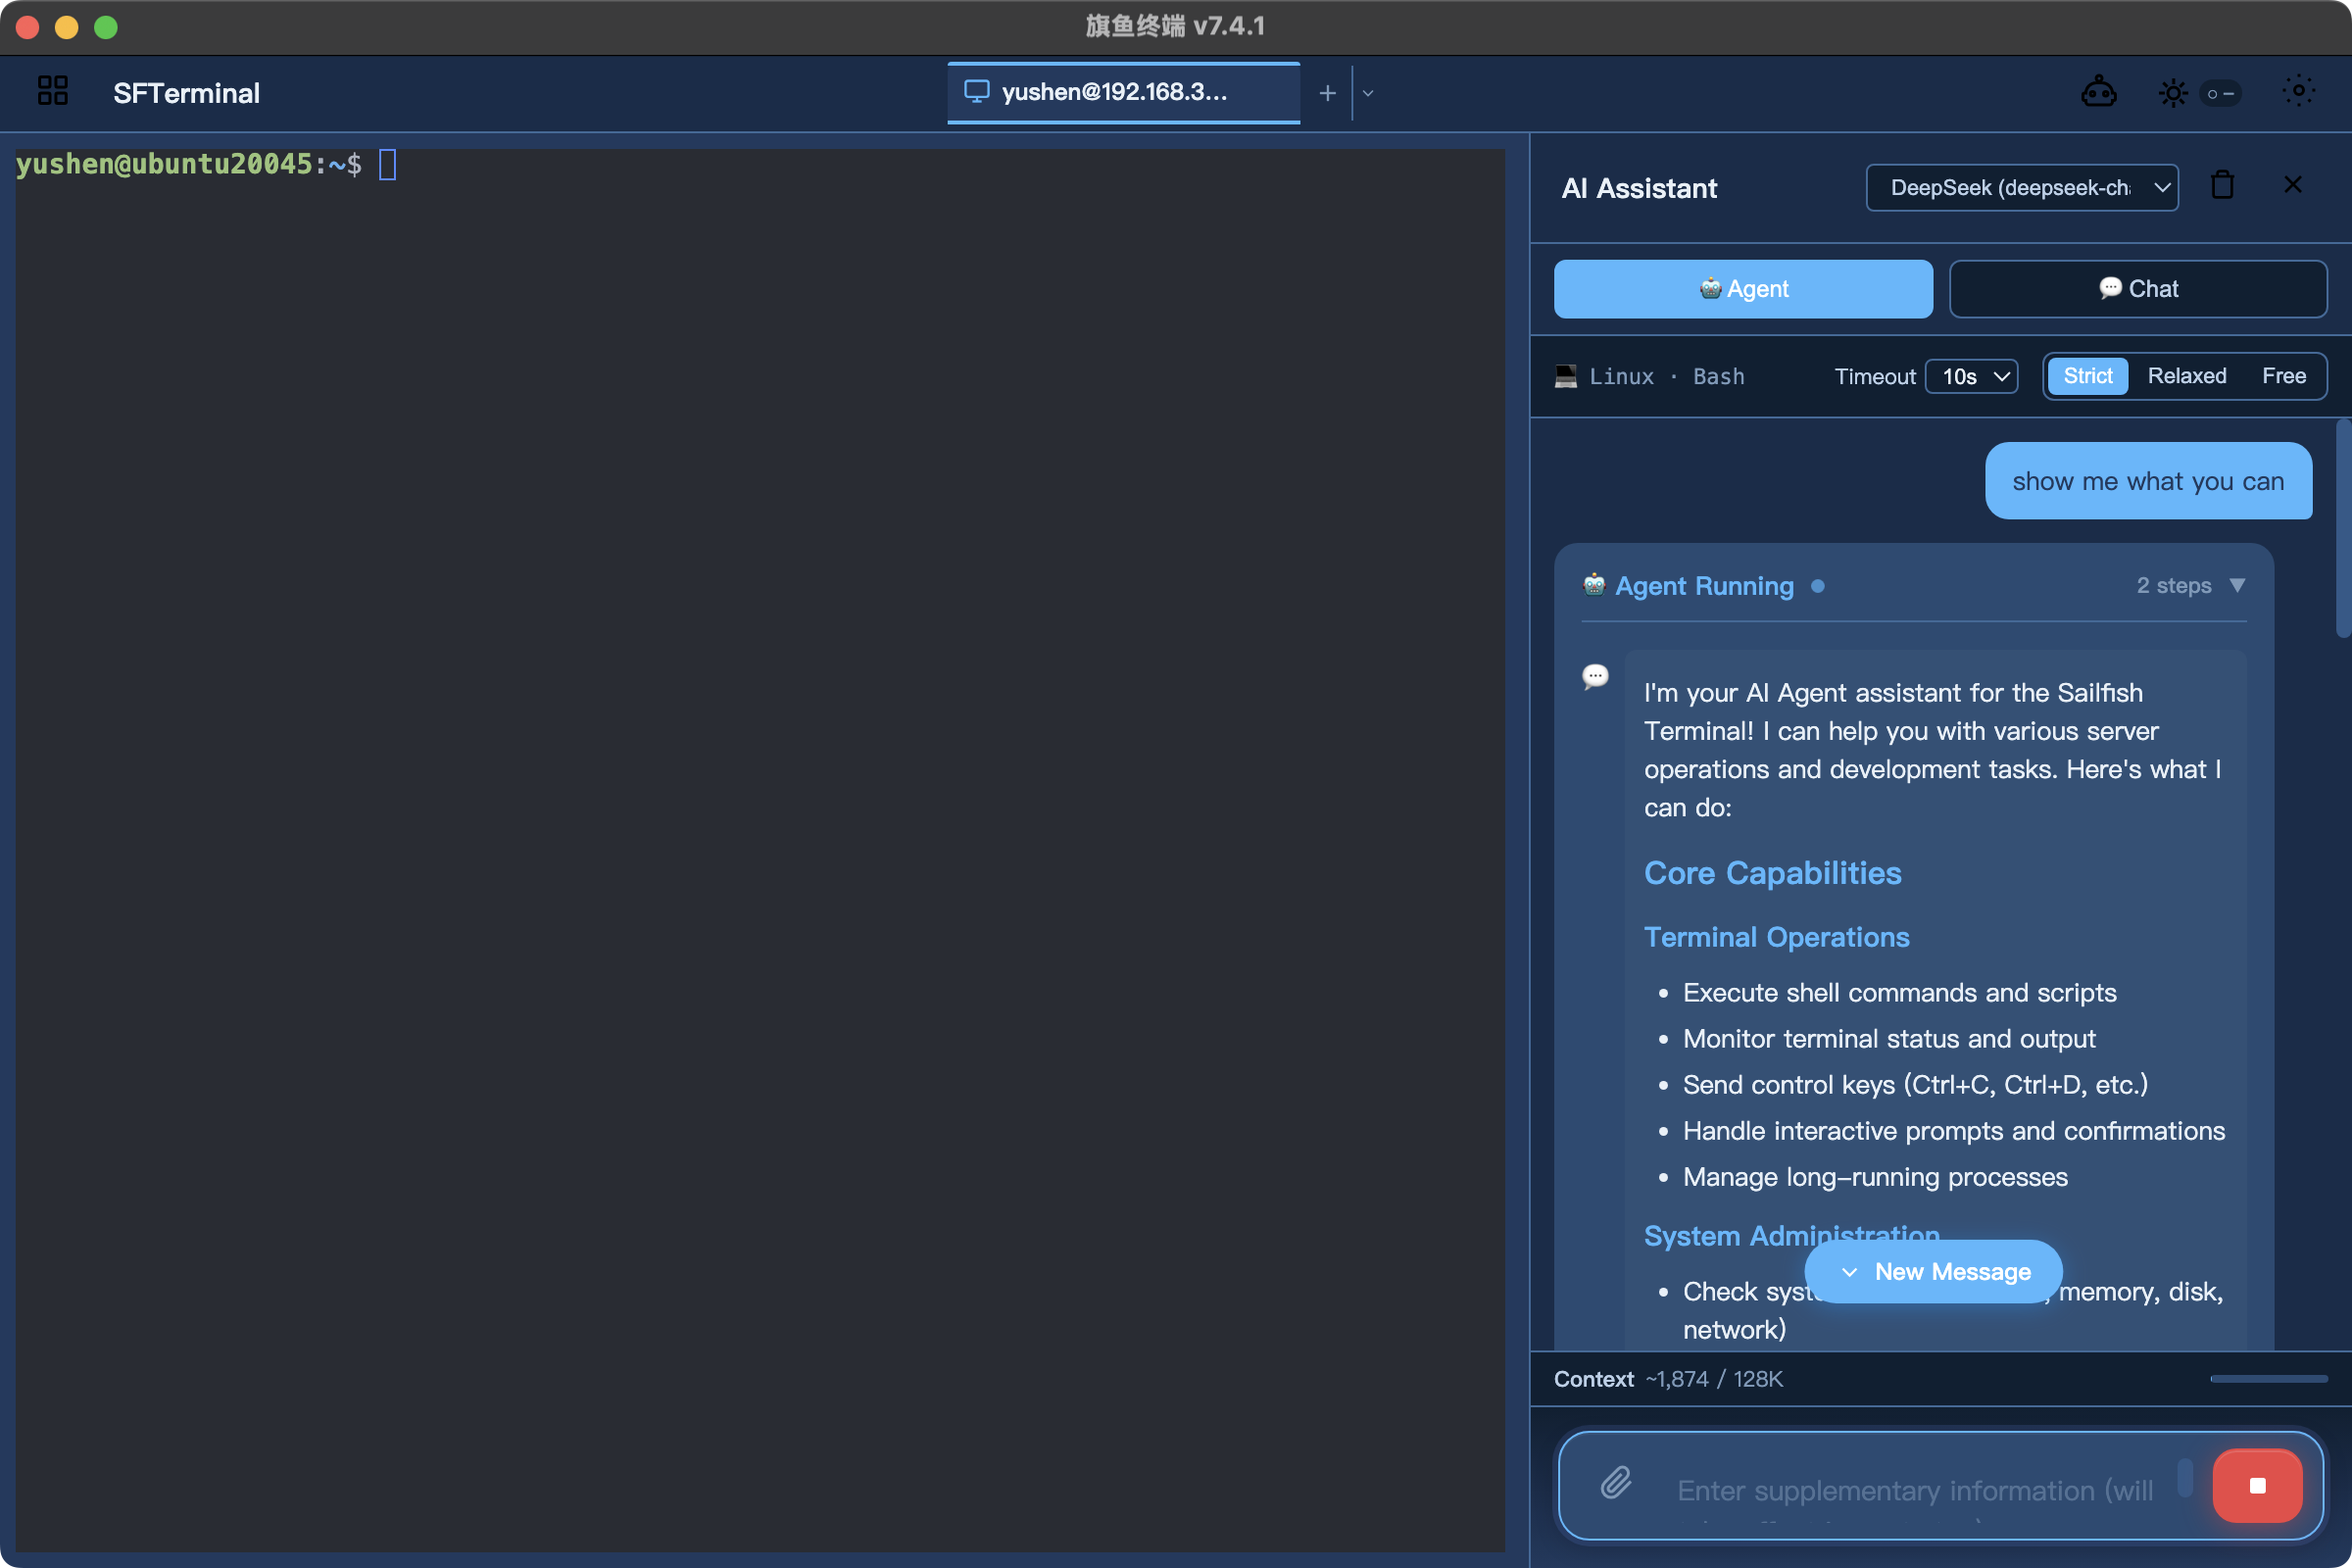
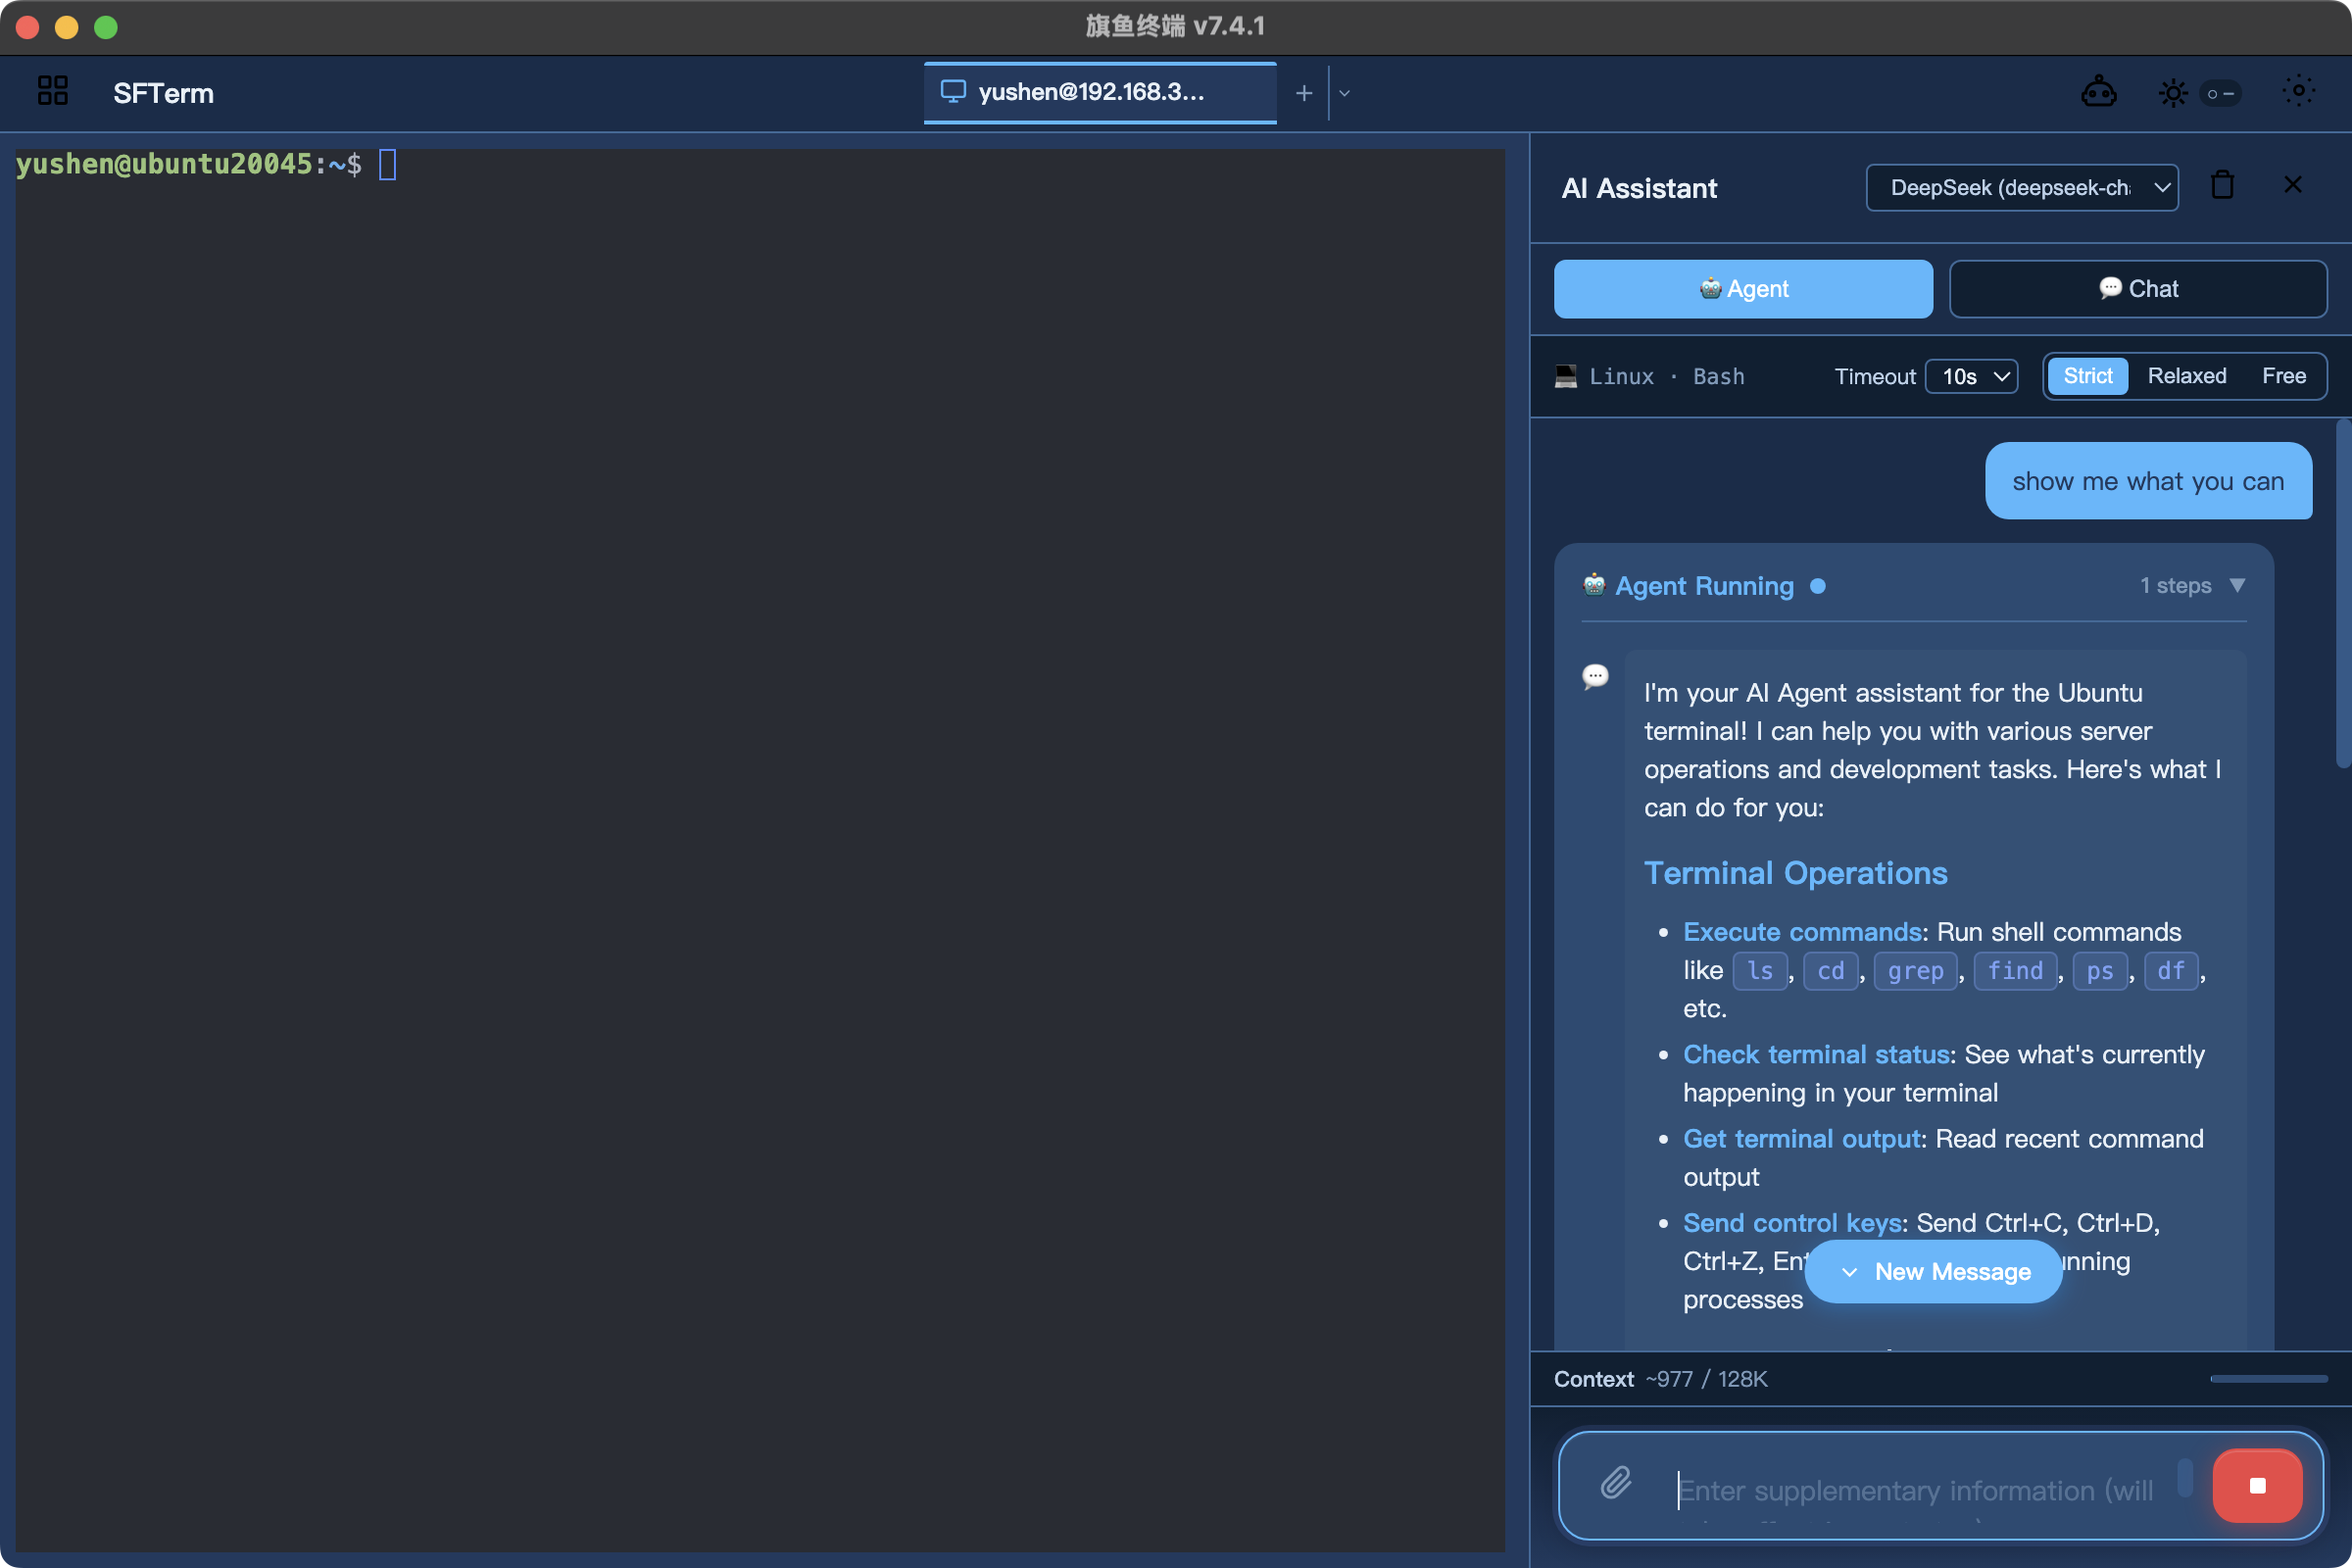
feat: 更新截图文件和品牌名称以增强多语言支持
- 更新多个截图文件以反映最新的设计和内容。
- 新增截图文件以支持智能分析和聊天功能。
- 修改品牌名称为“SFTerm”以统一品牌形象。
- 更新页面元数据中的关键词以反映品牌名称的变化。

diff --git a/website/src/i18n/translations.ts b/website/src/i18n/translations.ts
@@ -281,7 +281,7 @@ export const translations = {
       copyright: 'All rights reserved.',
     },
     common: {
-      brandName: 'SFTerminal',
+      brandName: 'SFTerm',
     },
   },
 } as const;
